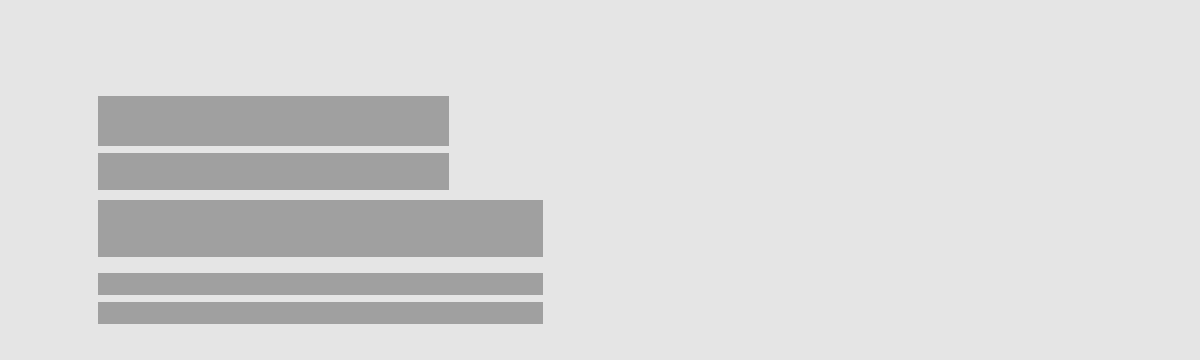
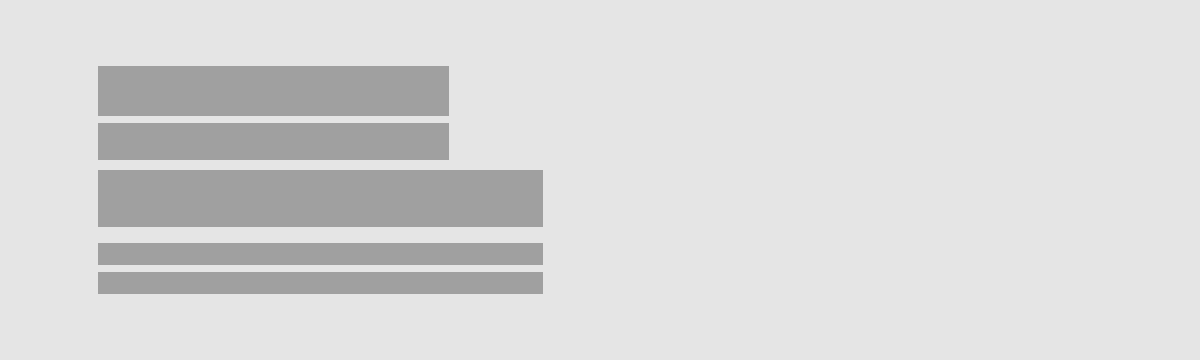
fix(lottery-show): align Mall HBN content vertically

diff --git a/開獎秀/01_線上電子BN/js/layout-02-mall-hbn.js b/開獎秀/01_線上電子BN/js/layout-02-mall-hbn.js
@@ -28,7 +28,7 @@ export const LAYOUT_02_MALL_HBN = Object.freeze({
   horizontalAlign: "left",
 
   logo: Object.freeze({
-    box: Object.freeze({ x: 98, y: 96, width: 351, height: 50 }),
+    box: Object.freeze({ x: 98, y: 66, width: 351, height: 50 }),
     intrinsic: Object.freeze({ width: 1678, height: 272 }),
     src: Object.freeze({
       orange: new URL("../assets/蝦皮大樂透_橘.png", import.meta.url),
@@ -42,7 +42,7 @@ export const LAYOUT_02_MALL_HBN = Object.freeze({
     title: Object.freeze({
       id: "title",
       label: "主標",
-      box: Object.freeze({ x: 98, y: 153, width: 351, height: 37 }),
+      box: Object.freeze({ x: 98, y: 123, width: 351, height: 37 }),
       photoshopPt: 40,
       canvasPt: 30,
       family: "medium",
@@ -52,7 +52,7 @@ export const LAYOUT_02_MALL_HBN = Object.freeze({
     subtitle: Object.freeze({
       id: "subtitle",
       label: "副標",
-      box: Object.freeze({ x: 98, y: 200, width: 445, height: 57 }),
+      box: Object.freeze({ x: 98, y: 170, width: 445, height: 57 }),
       photoshopPt: 60,
       canvasPt: 45,
       family: "bold",
@@ -62,7 +62,7 @@ export const LAYOUT_02_MALL_HBN = Object.freeze({
     small1: Object.freeze({
       id: "small1",
       label: "小字 1",
-      box: Object.freeze({ x: 98, y: 273, width: 445, height: 22 }),
+      box: Object.freeze({ x: 98, y: 243, width: 445, height: 22 }),
       photoshopPt: 24,
       canvasPt: 18,
       family: "regular",
@@ -72,7 +72,7 @@ export const LAYOUT_02_MALL_HBN = Object.freeze({
     small2: Object.freeze({
       id: "small2",
       label: "小字 2",
-      box: Object.freeze({ x: 98, y: 302, width: 445, height: 22 }),
+      box: Object.freeze({ x: 98, y: 272, width: 445, height: 22 }),
       photoshopPt: 24,
       canvasPt: 18,
       family: "regular",
